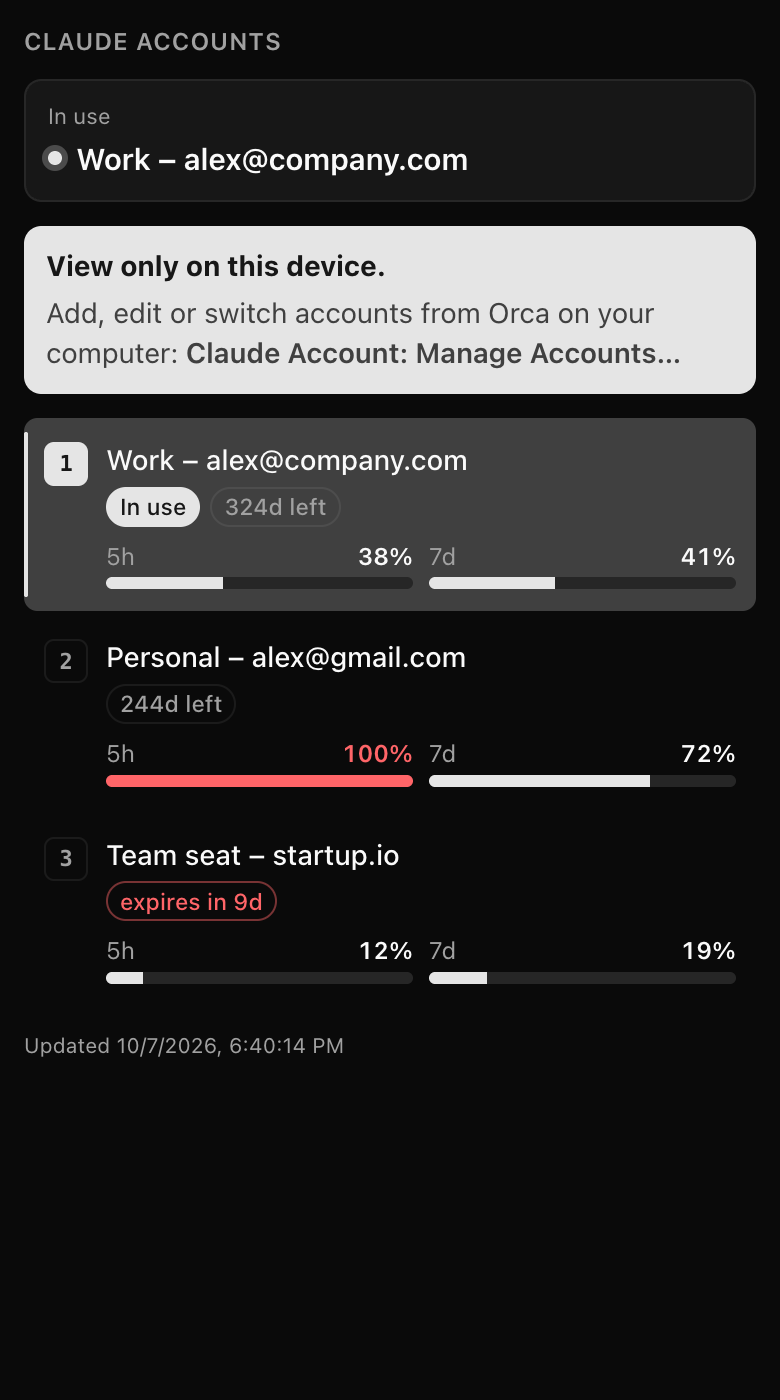
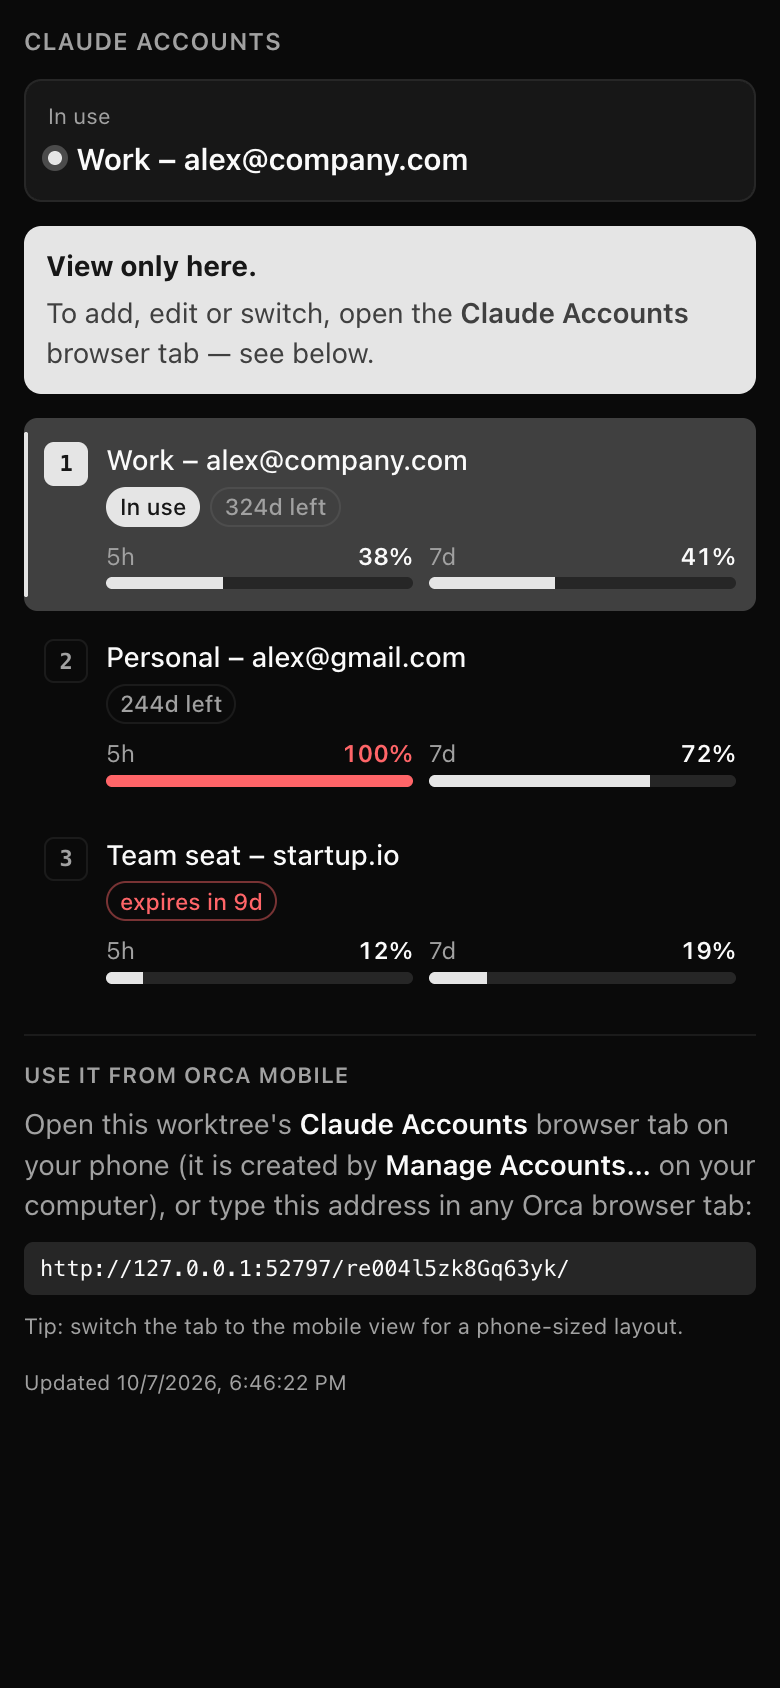
Use the manager from Orca mobile
Orca mobile streams the computer's browser tabs, so the Manage page
works from a phone once it is a tab in the worktree.

- Stable address: the server keeps its port and (now 96-bit) secret
  across restarts, plugin updates and the v0.11 state format, so an
  open tab or a typed address keeps working.
- Manage Accounts reuses the worktree's existing tab instead of opening
  another one.
- The page pings the server even in a background tab, shows
  "Reconnecting…" and recovers on its own; the server stays up 12 h
  without an open page.
- Phone layout for the page: stacked header, full-width usage bars,
  40px touch targets, 16px inputs, safe-area padding.
- The sidebar panel shows the address under "Use it from Orca mobile".
- README: phone section with screenshots (demo data).

Changed region(s): [[0.0308, 0.0, 0.9846, 0.8293]]

diff --git a/ui/manager.html b/ui/manager.html
@@ -2,7 +2,7 @@
 <html lang="en" class="__ORCA_THEME__">
   <head>
     <meta charset="utf-8" />
-    <meta name="viewport" content="width=device-width, initial-scale=1" />
+    <meta name="viewport" content="width=device-width, initial-scale=1, viewport-fit=cover" />
     <title>Claude Accounts</title>
     <meta name="orca-theme-source" content="__ORCA_THEME_SOURCE__" />
     <!-- Design tokens read at runtime from the installed Orca app (see lib/orca-theme.mjs). -->
@@ -463,13 +463,76 @@
       #toast.err {
         color: var(--destructive);
       }
-      @media (max-width: 560px) {
+      /* Phones, and Orca mobile's "mobile" view of this tab. */
+      @media (max-width: 640px) {
+        main {
+          padding: max(16px, env(safe-area-inset-top)) max(14px, env(safe-area-inset-right))
+            max(28px, env(safe-area-inset-bottom)) max(14px, env(safe-area-inset-left));
+        }
+        header {
+          flex-direction: column;
+          align-items: stretch;
+          gap: 12px;
+        }
+        .header-actions {
+          display: grid;
+          grid-template-columns: 1fr 1fr;
+          gap: 8px;
+        }
+        .header-actions #add {
+          grid-column: 1 / -1;
+          order: -1;
+        }
         .row {
           flex-wrap: wrap;
+          align-items: flex-start;
+        }
+        .info {
+          flex-basis: calc(100% - 40px);
+        }
+        .usage {
+          gap: 10px 12px;
+        }
+        .ubar {
+          flex: 1 1 130px;
+          width: auto;
+        }
+        .usage-at {
+          flex-basis: 100%;
         }
         .actions {
           width: 100%;
           justify-content: flex-end;
+          flex-wrap: wrap;
+        }
+        .actions button:not(.icon) {
+          margin-right: auto;
+        }
+        .footer {
+          flex-direction: column;
+          align-items: flex-start;
+        }
+        dialog {
+          width: calc(100vw - 24px);
+        }
+      }
+
+      /* Touch screens: finger-sized targets, and no zoom-on-focus in inputs. */
+      @media (hover: none) and (pointer: coarse) {
+        button {
+          min-height: 40px;
+        }
+        button.icon {
+          width: 40px;
+          height: 40px;
+        }
+        input[type='text'],
+        input[type='password'] {
+          height: 42px;
+          font-size: 16px;
+        }
+        .check {
+          min-height: 40px;
         }
       }
     </style>
@@ -489,6 +552,11 @@
           </button>
         </div>
       </header>
+
+      <div class="alert offline" id="offline" role="status">
+        Reconnecting to the account manager… If this stays, run <strong>Claude Account: Manage Accounts…</strong>
+        in Orca on your computer.
+      </div>
 
       <div class="alert" id="drift">
         <code>~/.claude/settings.json</code> holds a different token than the account in use. Switch again
@@ -815,10 +883,25 @@
             state = next
             render()
           })
+          .then(function () {
+            $('offline').className = 'alert offline'
+          })
           .catch(function () {
-            toast('Account manager stopped. Reopen it from Orca (⌘⇧M).', true)
+            // The server restarts on the same address (plugin update, idle
+            // exit): keep retrying instead of giving up.
+            $('offline').className = 'alert offline show'
           })
       }
+
+      // Keep the server alive while this tab exists, even in the background
+      // (e.g. waiting in Orca mobile's tab list), and notice when it is back.
+      setInterval(function () {
+        if (document.hidden) request('GET', 'ping').catch(function () {})
+        else if ($('offline').classList.contains('show')) refresh()
+      }, 60 * 1000)
+      setInterval(function () {
+        if (!document.hidden && $('offline').classList.contains('show')) refresh()
+      }, 5000)
 
       function act(action, body) {
         if (busy) return Promise.resolve()

diff --git a/ui/panel.template.html b/ui/panel.template.html
@@ -224,6 +224,43 @@
         background: color-mix(in srgb, var(--primary-foreground) 12%, transparent);
         color: var(--primary-foreground);
       }
+      .phone {
+        margin-top: 14px;
+        padding-top: 12px;
+        border-top: 1px solid var(--border);
+        color: var(--muted-foreground);
+      }
+      .phone h2 {
+        margin: 0 0 6px;
+        font-size: 11px;
+        font-weight: 600;
+        letter-spacing: 0.04em;
+        text-transform: uppercase;
+      }
+      .phone p {
+        margin: 0 0 8px;
+      }
+      .phone strong,
+      .phone em {
+        color: var(--foreground);
+        font-style: normal;
+        font-weight: 600;
+      }
+      .phone code {
+        display: block;
+        padding: 7px 8px;
+        border-radius: calc(var(--radius, 10px) - 4px);
+        background: var(--muted);
+        color: var(--foreground);
+        font: 500 11px ui-monospace, Menlo, monospace;
+        overflow-wrap: anywhere;
+        user-select: all;
+        -webkit-user-select: all;
+      }
+      .phone-tip {
+        margin-top: 8px !important;
+        font-size: 11px;
+      }
       .keys {
         margin-top: 14px;
         padding-top: 12px;
@@ -329,11 +366,20 @@
       <div class="cta-row keyboard-only"><strong>Add, edit or switch</strong><kbd data-key="manage">⌘⇧M</kbd></div>
       <div class="cta-row keyboard-only"><span>Switch to next account</span><kbd data-key="next">⌘⌥N</kbd></div>
       <div class="touch-hint">
-        <strong>View only on this device.</strong>
-        <span>Add, edit or switch accounts from Orca on your computer: <em>Claude Account: Manage Accounts…</em></span>
+        <strong>View only here.</strong>
+        <span>To add, edit or switch, open the <em>Claude Accounts</em> browser tab — see below.</span>
       </div>
     </div>
     <div class="list" id="list"></div>
+    <section class="phone" id="phone">
+      <h2>Use it from Orca mobile</h2>
+      <p>
+        Open this worktree's <strong>Claude Accounts</strong> browser tab on your phone (it is created by
+        <em>Manage Accounts…</em> on your computer), or type this address in any Orca browser tab:
+      </p>
+      <code id="manager-url"></code>
+      <p class="phone-tip">Tip: switch the tab to the mobile view for a phone-sized layout.</p>
+    </section>
     <div class="keys">
       <div><span>All commands: <span data-key="palette">⌘J</span> → “Claude Account”</span></div>
     </div>
@@ -413,6 +459,8 @@
         document.getElementById('current').textContent = active ? active.label : 'Default login (no token)'
         document.getElementById('dot').className = 'dot' + (active ? ' on' : '')
         document.getElementById('drift').hidden = !data.drift
+        if (data.managerUrl) document.getElementById('manager-url').textContent = data.managerUrl
+        else document.getElementById('phone').hidden = true
         document.getElementById('stamp').textContent =
           Date.parse(data.generatedAt) > 0 ? 'Updated ' + new Date(data.generatedAt).toLocaleString() : ''
 

diff --git a/README.md b/README.md
@@ -76,16 +76,16 @@ Choose **one** of the two options.
 2. Choose to install a plugin from **Git** and enter this URL **including the `#` part**:
 
    ```
-   https://github.com/baroned1707/orca-claude-accounts.git#v0.11.4
+   https://github.com/baroned1707/orca-claude-accounts.git#v0.12.0
    ```
 
-   The `#v0.11.4` pins the exact release; Orca requires a tag or commit after `#`.
+   The `#v0.12.0` pins the exact release; Orca requires a tag or commit after `#`.
 3. Enable **Claude Accounts** and approve its permission (it only shows notifications).
 
 ### Option B — developer path (live sidebar panel, easy updates)
 
 ```sh
-git clone --branch v0.11.4 https://github.com/baroned1707/orca-claude-accounts.git
+git clone --branch v0.12.0 https://github.com/baroned1707/orca-claude-accounts.git
 cd orca-claude-accounts
 npm link        # optional: adds the `claude-accounts` command (Node.js 18+)
 ```
@@ -169,10 +169,30 @@ the shortcuts for your platform (`⌘` on macOS, `Ctrl` on Windows/Linux).
 
 **On Orca mobile and tablets** the panel adapts: larger text and touch-sized rows,
 two columns on wide screens, safe-area padding, and — since there is no keyboard —
-a *View only on this device* note instead of shortcuts. Make changes from Orca on
-your computer.
+a note pointing to the Manage page instead of shortcuts.
 
-<img src="docs/images/sidebar-panel-mobile.png" alt="Sidebar panel on a phone" width="300">
+## 7b. Use it from your phone (Orca mobile)
+
+Orca mobile shows your computer's browser tabs live, so the **Manage accounts
+page works from your phone** — add, switch, refresh usage, everything.
+
+1. On your computer, open it once with `⌘⇧M` (or *Claude Account: Manage Accounts…*).
+   This creates a **Claude Accounts** browser tab in the current worktree.
+2. On your phone, open that worktree in Orca and pick the **Claude Accounts** tab.
+   Switch the tab to Orca's **mobile view** for a phone-sized layout.
+3. No tab? Open any browser tab in Orca mobile and type the address shown under
+   **Use it from Orca mobile** in the sidebar panel.
+
+The address stays the same across restarts and updates, so the tab keeps working;
+`⌘⇧M` reuses that tab instead of opening another. While the tab exists the page keeps
+the manager running (it stops after 12 hours with no open tab); if it stopped, the
+page shows *Reconnecting…* until you run *Manage Accounts…* on the computer again.
+
+<p>
+  <img src="docs/images/manage-mobile.png" alt="Manage accounts on a phone" width="300">
+  &nbsp;
+  <img src="docs/images/sidebar-panel-mobile.png" alt="Sidebar panel on a phone" width="300">
+</p>
  The panel is **read-only** — Orca doesn't let plugin panels run
 commands — so use `⌘⇧M` to change anything.
 
@@ -207,7 +227,7 @@ claude-accounts rm 2
 | *Could not run the plugin command* | **Settings → Plugins → Claude Accounts**: approve the plugin again (needed after shortcut changes), then reload it. |
 | `⌘⇧M` opens a markdown tab | Orca's *New markdown tab* uses the same key. Change one of them in **Settings → Shortcuts**. |
 | The page opened in my web browser | Orca needs an open worktree to show it as a tab. |
-| *The account manager is not running* | It stops after 30 idle minutes. Press `⌘⇧M` again. |
+| *Reconnecting…* / *The account manager is not running* | It stops after 12 hours without an open tab. Run *Manage Accounts…* (`⌘⇧M`) on the computer; open tabs reconnect by themselves. |
 | *token rejected by Anthropic* | The token is wrong, revoked or expired. Create a new one (step 2). |
 | *this token is already saved as …* | You pasted a token that is already stored — check your clipboard holds the new token. |
 | *same organization as …* | Fine on Team/Enterprise plans. Otherwise you probably ran `claude setup-token` while the browser was signed in to that other account. |
@@ -234,7 +254,8 @@ it while running**, so new and running sessions use the selected account
 - **Manage page** — plugin panels can't exchange data with the plugin, so the page
   is served by a small local server running as its own process: bound to
   `127.0.0.1`, behind a random 256-bit URL secret, `Host`-checked, JSON-only writes
-  with a custom header, never returns tokens, exits after 30 idle minutes.
+  with a custom header, never returns tokens; it keeps the same address across
+  restarts and exits after 12 hours without an open page.
 - **Theme** — read at runtime from the installed Orca's `resources/app.asar`, so it
   matches your Orca version, theme and font; system colors if Orca can't be read.
 
